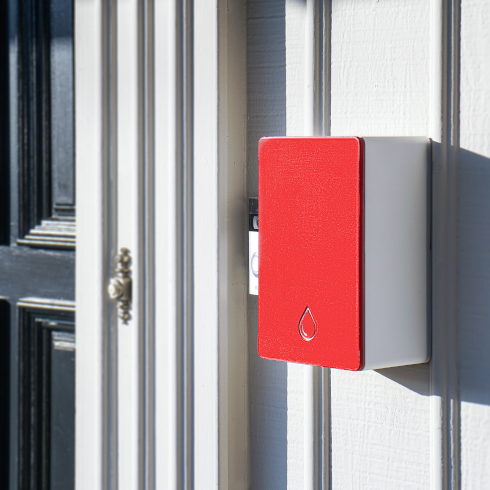
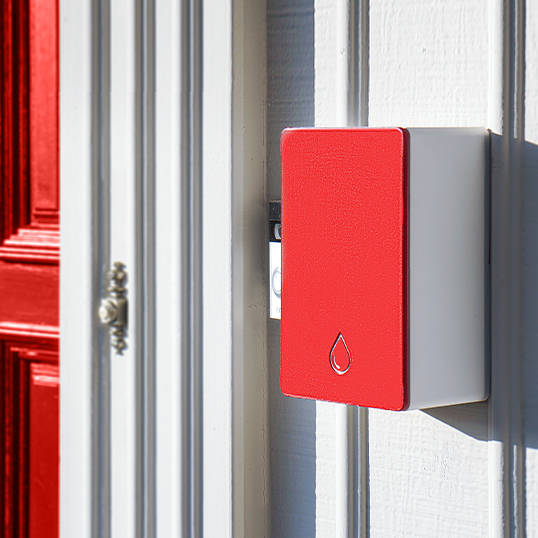
updated desktop site with new graphics

diff --git a/index.html b/index.html
@@ -124,15 +124,15 @@
     <main>
 
         <div class="container-fluid px-0 mb-3" style="position: relative;" id="home">
-            <div class="row">
+            <div class="row no-gutters">
                 <div class="col-12">
-                    <img src="images/4.png" class="d-block w-100 img-fluid" aria-hidden="true" focusable="false">
+                    <img src="images/landing_1.png" class="d-block w-100 img-fluid" aria-hidden="true" focusable="false">
 
                     <div class="col-sm-6 home-text-block d-none d-md-block">
                         <h1 class="display-1 animate__animated animate__fadeIn font-weight-bold">Handsome
                             <div class="display-4 animate__animated animate__fadeIn animate__delay-1s">A smart outdoor device that protects your home and family against viruses</div>
                         </h1>
-                        <div class="display-4 animate__animated animate__fadeIn animate__delay-2s" style="color:#D9EAEE;">Only $8.90/month</div>
+                        <div class="display-4 animate__animated animate__fadeIn animate__delay-2s">Only $8.90/month</div>
                         <div class="display-4 animate__animated animate__fadeIn animate__delay-2s">Available April, 2021</div>
                             <p><a class="button button-red-100" href="#how_it_works" role="button">Learn more...</a></p>
                         </div>
@@ -160,18 +160,18 @@
                 <!-- Three columns of text below the carousel -->
                 <div class="row">
                     <div class="col-lg-4 pt-4">
-                        <img src="images/how_it_works_1.png" class="rounded">
-                        <h3 class="pt-4">Easy, cordless self-installation, outside of your front door</h3>
+                        <img src="images/1_tips.png" class="rounded">
+                        <h3 class="pt-4 pb-4">Easy, cordless self-installation, outside of your front door</h3>
                             <p>Handsome’s installation doesn't require any cables. You can install it by yourself. Choose the front panel color that matches your home!</p>
                     </div><!-- /.col-lg-4 -->
                     <div class="col-lg-4 pt-4">
-                        <img src="images/how_it_works_2.png" class="rounded">
-                        <h3 class="pt-4">Detects anyone who approaches your door and asks them to clean hands</h3>
+                        <img src="images/2_tips.png" class="rounded">
+                        <h3 class="pt-4 pb-4">Detects anyone who approaches your door and asks them to clean hands</h3>
                             <p>Sensors and AI help Handsome to detect anyone who enters your home. Using LEDs and a speaker it asks them to clean their hands before they enter.</p>
                     </div><!-- /.col-lg-4 -->
                     <div class="col-lg-4 pt-4">
-                        <img src="images/how_it_works_3.png" class="rounded">
-                        <h3 class="pt-4">Auto-refill service will send you a refill liquid pack before it's empty</h3>
+                        <img src="images/3_tips.png" class="rounded">
+                        <h3 class="pt-4 pb-4">Auto-refill service will send you a refill liquid pack before it's empty</h3>
                             <p>Never run out of sanitizer and keep your home and family always protected. You can choose between "unlimited" and "no-commitment" plans.</p>
                     </div><!-- /.col-lg-4 -->
 
@@ -192,7 +192,7 @@
                             <div class="carousel-item active">
                                 <div class="card" style="width: 20rem; height: 34.5rem;">
                                     <!--                                <div class="card" style="width: 18rem;">-->
-                                    <img class="card-img-top" src="images/how_it_works_1.png" alt="Card image cap">
+                                    <img class="card-img-top" src="images/1_tips.png" alt="Card image cap">
                                     <div class="card-body">
                                         <h5 class="card-title">Easy, cordless self-installation, outside of your front door</h5>
                                         <p class="card-text">Handsome’s installation doesn't require any cables. You can install it by yourself. Choose the front panel color that matches your home!</p>
@@ -202,7 +202,7 @@
                             </div>
                             <div class="carousel-item">
                                 <div class="card" style="width: 20rem; height: 34.5rem;">
-                                    <img class="card-img-top" src="images/how_it_works_2.png" alt="Card image cap">
+                                    <img class="card-img-top" src="images/2_tips.png" alt="Card image cap">
                                     <div class="card-body">
                                         <h5 class="card-title">Detects anyone who approaches your door and asks them to clean hands</h5>
                                         <p class="card-text">Sensors and AI help Handsome to detect anyone who enters your home. Using LEDs and a speaker it asks them to clean their hands before they enter.</p>
@@ -212,7 +212,7 @@
                             </div>
                             <div class="carousel-item">
                                 <div class="card" style="width: 20rem; height: 34.5rem;">
-                                    <img class="card-img-top" src="images/how_it_works_3.png" alt="Card image cap">
+                                    <img class="card-img-top" src="images/3_tips.png" alt="Card image cap">
                                     <div class="card-body">
                                         <h5 class="card-title">Auto-refill service will send you a refill liquid pack before it's empty</h5>
                                         <p class="card-text">Never run out of sanitizer and keep your home and family always protected. You can choose between "unlimited" and "no-commitment" plans.</p>
@@ -244,10 +244,10 @@
                 <div class="row featurette">
                     <div class="col-md-7">
                         <h2 class="featurette-heading">Handsome is the first sanitizing device to protect your home from the outside</h2>
-                        <p class="lead">We wish everyone will clean their hands before entering our home. Before touching the handle, before handshaking, before bringing the germs in! Handsome assures everyone cleans hands before they enter.</p>
+                        <p class="lead spacious">We wish everyone will clean their hands before entering our home. Before touching the handle, before handshaking, before bringing the germs in! Handsome assures everyone cleans hands before they enter.</p>
                     </div>
                     <div class="col-md-5">
-                        <img src="images/advantages_2.png" class="rounded featurette-image img-fluid mx-auto" width="400" height="400">
+                        <img src="images/1_banner_400x400.png" class="rounded featurette-image img-fluid mx-auto" width="400" height="400">
                     </div>
                 </div>
 
@@ -257,10 +257,10 @@
                 <div class="row featurette">
                     <div class="col-md-7 order-md-2">
                         <h2 class="featurette-heading">We want our home to be nice and welcoming. It is not a public bathroom</h2>
-                        <p class="lead">You can customize Handsome to match your desired look. Multiple color panels are available. It will also make the device noticeable. Show everyone that you care about your loved ones and close ones.</p>
+                        <p class="lead spacious">You can customize Handsome to match your desired look. Multiple color panels are available. It will also make the device noticeable. Show everyone that you care about your loved ones and close ones.</p>
                     </div>
                     <div class="col-md-5 order-md-1">
-                        <img src="images/advantages_1.png" class="rounded featurette-image img-fluid mx-auto" width="400" height="400">
+                        <img src="images/2_banner_400x400.png" class="rounded featurette-image img-fluid mx-auto" width="400" height="400">
                     </div>
                 </div>
 
@@ -270,10 +270,10 @@
                 <div class="row featurette">
                     <div class="col-md-7">
                         <h2 class="featurette-heading">Do you feel comfortable reminding your guests and kids to clean their hands?</h2>
-                        <p class="lead">Handsome will automatically detect anyone who is about to come in. It will entertainingly remind them to clean their hands. Enjoy the peace of mind, you checked this one off your list!</p>
+                        <p class="lead spacious">Handsome will automatically detect anyone who is about to come in. It will entertainingly remind them to clean their hands. Enjoy the peace of mind, you checked this one off your list!</p>
                     </div>
                     <div class="col-md-5">
-                        <img src="images/advantages_3.png" class="rounded featurette-image img-fluid mx-auto" width="400" height="400">
+                        <img src="images/3_banner_400x400.png" class="rounded featurette-image img-fluid mx-auto" width="400" height="400">
                     </div>
                 </div>
 
@@ -283,10 +283,10 @@
                 <div class="row featurette">
                     <div class="col-md-7 order-md-2">
                         <h2 class="featurette-heading">Never run out of your favorite gentle sanitizing liquid, with auto refill service</h2>
-                        <p class="lead">Chose between: odorless, fresh lemon, and calming lavender fragrances. The formula is hypo-allergic and made of organic ingredients. It complies with all industry standards and kills 99.9% of the germ and bacteria</p>
+                        <p class="lead spacious">Chose between: odorless, fresh lemon, and calming lavender fragrances. The formula is hypo-allergic and made of organic ingredients. It complies with all industry standards and kills 99.9% of the germ and bacteria</p>
                     </div>
                     <div class="col-md-5 order-md-1">
-                        <img src="images/advantages_4.png" class="rounded featurette-image img-fluid mx-auto" width="400" height="400">
+                        <img src="images/4_banner_400x400.png" class="rounded featurette-image img-fluid mx-auto" width="400" height="400">
                     </div>
                 </div>
 

diff --git a/css/custom.css b/css/custom.css
@@ -203,11 +203,15 @@ $red_:#872729;
 /* Thin out the marketing headings */
 .featurette-heading {
     font-weight: 300;
-    line-height: 1;
+    /*line-height: 1;*/
     /* rtl:remove */
     letter-spacing: -.05rem;
+    margin-bottom: 3rem;
 }
 
+.spacious {
+    line-height: 1.75;
+}
 
 /* RESPONSIVE CSS
 -------------------------------------------------- */
@@ -228,7 +232,7 @@ $red_:#872729;
 
 @media (min-width: 62em) {
     .featurette-heading {
-        margin-top: 7rem;
+        margin-top: 1rem;
     }
 }
 
@@ -312,9 +316,9 @@ $red_:#872729;
     }
 
     .display-4 {
-        font-size: 2rem;
-        margin-bottom: 1rem;
-        margin-top: 1rem;
+        font-size: 2.5rem;
+        margin-bottom: 2.5rem;
+        margin-top: 2rem;
     }
 
     .home-text-block {
@@ -337,8 +341,8 @@ $red_:#872729;
 
     .display-4 {
         font-size: 3rem;
-        margin-bottom: 1.25rem;
-        margin-top: 1.25rem;
+        margin-bottom: 1.8rem;
+        margin-top: 1.8rem;
     }
 
     .home-text-block {
@@ -360,8 +364,8 @@ $red_:#872729;
 
     .display-4 {
         font-size: 4rem;
-        margin-bottom: 1.25rem;
-        margin-top: 1.25rem;
+        margin-bottom: 3rem;
+        margin-top: 3rem;
     }
 
     .home-text-block {
